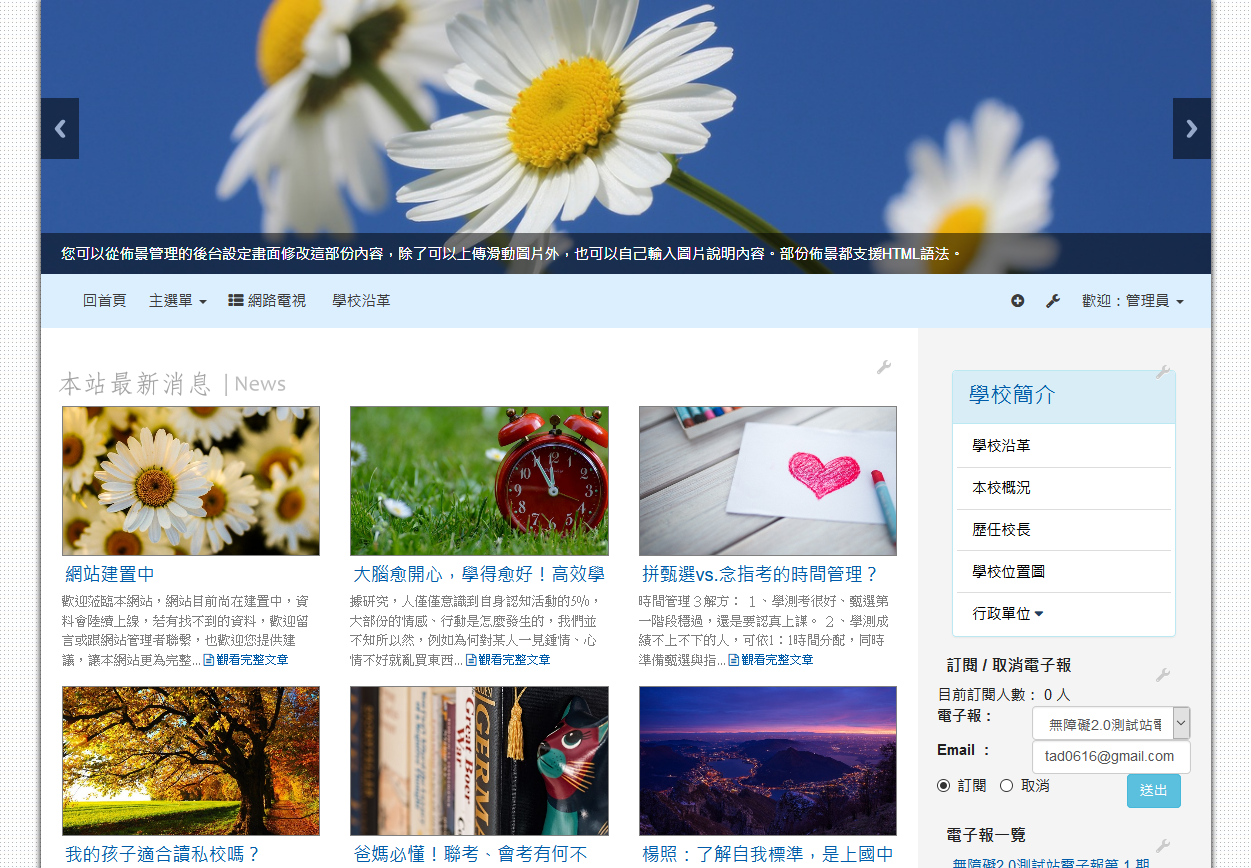
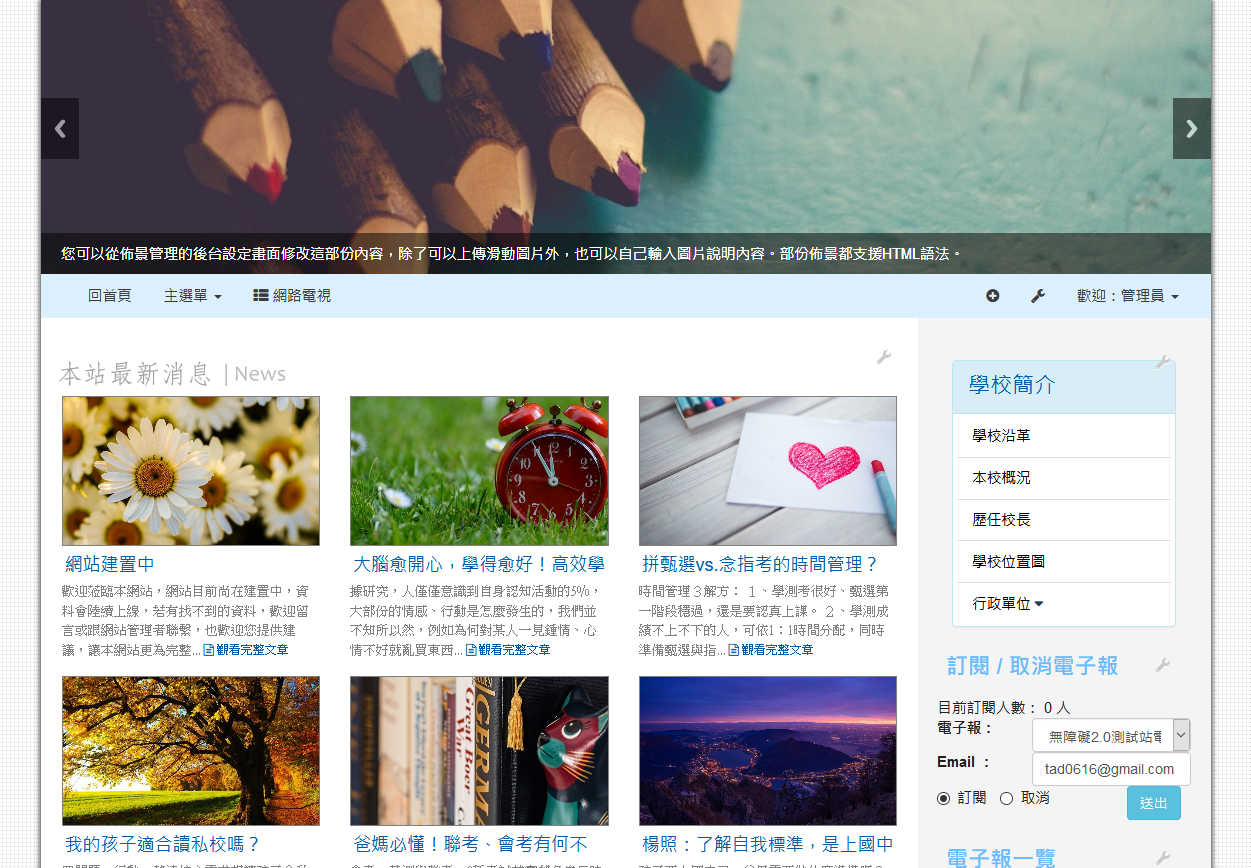
修正主內容區最上方無空隙問題

diff --git a/css/style.css b/css/style.css
@@ -37,7 +37,7 @@ p {
 
 /*主內容區*/
 #xoops_contents{
-
+  padding-top: 1rem;
 }
 
 /* 右區域 */
@@ -50,7 +50,6 @@ p {
   background-position: center center;
 }
 
-
 a {
   text-decoration: none;
 }
@@ -58,7 +57,6 @@ a {
 a:hover {
   text-decoration: none;
 }
-
 
 a.block_config {
   position:absolute;
@@ -74,7 +72,6 @@ a.block_config {
 a.block_config:hover {
   background-image: url(../img/block_config_hover.png);
 }
-
 
 .xoops_content_shadow{
   -moz-box-shadow: :0px 0px 5px 1px #333;

diff --git a/config2.php b/config2.php
@@ -1,135 +1,143 @@
 <?php
-$i                           = 0;
-$theme_config[$i]['name']    = "show_var";
-$theme_config[$i]['text']    = TF_SHOW_VAR;
-$theme_config[$i]['desc']    = TF_SHOW_VAR_DESC;
-$theme_config[$i]['type']    = "yesno";
+$i = 0;
+$theme_config[$i]['name'] = "show_var";
+$theme_config[$i]['text'] = TF_SHOW_VAR;
+$theme_config[$i]['desc'] = TF_SHOW_VAR_DESC;
+$theme_config[$i]['type'] = "yesno";
 $theme_config[$i]['default'] = "0";
 
 //外框是否套用 container
 $i++;
-$theme_config[$i]['name']    = "use_container";
-$theme_config[$i]['text']    = TF_USE_CONTAINER;
-$theme_config[$i]['desc']    = TF_USE_CONTAINER_DESC;
-$theme_config[$i]['type']    = "yesno";
+$theme_config[$i]['name'] = "use_container";
+$theme_config[$i]['text'] = TF_USE_CONTAINER;
+$theme_config[$i]['desc'] = TF_USE_CONTAINER_DESC;
+$theme_config[$i]['type'] = "yesno";
 $theme_config[$i]['default'] = "1";
 
 //外框是否套用陰影
 $i++;
-$theme_config[$i]['name']    = "use_shadow";
-$theme_config[$i]['text']    = TF_USE_SHADOW;
-$theme_config[$i]['desc']    = TF_USE_SHADOW_DESC;
-$theme_config[$i]['type']    = "yesno";
+$theme_config[$i]['name'] = "use_shadow";
+$theme_config[$i]['text'] = TF_USE_SHADOW;
+$theme_config[$i]['desc'] = TF_USE_SHADOW_DESC;
+$theme_config[$i]['type'] = "yesno";
 $theme_config[$i]['default'] = "1";
 
 //外框是否包含logo圖
 $i++;
-$theme_config[$i]['name']    = "shadow_include_logo";
-$theme_config[$i]['text']    = TF_USE_SHADOW_LOGO;
-$theme_config[$i]['desc']    = TF_USE_SHADOW_LOGO_DESC;
-$theme_config[$i]['type']    = "yesno";
+$theme_config[$i]['name'] = "shadow_include_logo";
+$theme_config[$i]['text'] = TF_USE_SHADOW_LOGO;
+$theme_config[$i]['desc'] = TF_USE_SHADOW_LOGO_DESC;
+$theme_config[$i]['type'] = "yesno";
 $theme_config[$i]['default'] = "0";
 
 //上方logo底色
 $i++;
-$theme_config[$i]['name']    = "logo_bgcolor";
-$theme_config[$i]['text']    = TF_LOGO_BGCOLOR;
-$theme_config[$i]['desc']    = TF_LOGO_BGCOLOR_DESC;
-$theme_config[$i]['type']    = "color";
+$theme_config[$i]['name'] = "logo_bgcolor";
+$theme_config[$i]['text'] = TF_LOGO_BGCOLOR;
+$theme_config[$i]['desc'] = TF_LOGO_BGCOLOR_DESC;
+$theme_config[$i]['type'] = "color";
 $theme_config[$i]['default'] = "transparent";
 
 //左區域和主內容間是否加上分隔線
 $i++;
-$theme_config[$i]['name']    = "left_separate";
-$theme_config[$i]['text']    = TF_LEFT_SPARATE;
-$theme_config[$i]['desc']    = TF_LEFT_SPARATE_DESC;
-$theme_config[$i]['type']    = "yesno";
+$theme_config[$i]['name'] = "left_separate";
+$theme_config[$i]['text'] = TF_LEFT_SPARATE;
+$theme_config[$i]['desc'] = TF_LEFT_SPARATE_DESC;
+$theme_config[$i]['type'] = "yesno";
 $theme_config[$i]['default'] = "0";
 
 //右區域和主內容間是否加上分隔線
 $i++;
-$theme_config[$i]['name']    = "right_separate";
-$theme_config[$i]['text']    = TF_RIGHT_SPARATE;
-$theme_config[$i]['desc']    = TF_RIGHT_SPARATE_DESC;
-$theme_config[$i]['type']    = "yesno";
+$theme_config[$i]['name'] = "right_separate";
+$theme_config[$i]['text'] = TF_RIGHT_SPARATE;
+$theme_config[$i]['desc'] = TF_RIGHT_SPARATE_DESC;
+$theme_config[$i]['type'] = "yesno";
 $theme_config[$i]['default'] = "0";
 
 //左右區域和主內容間的分隔線樣式
 $i++;
-$theme_config[$i]['name']    = "separate_style";
-$theme_config[$i]['text']    = TF_SPARATE_STYLE;
-$theme_config[$i]['desc']    = TF_SPARATE_STYLE_DESC;
-$theme_config[$i]['type']    = "text";
+$theme_config[$i]['name'] = "separate_style";
+$theme_config[$i]['text'] = TF_SPARATE_STYLE;
+$theme_config[$i]['desc'] = TF_SPARATE_STYLE_DESC;
+$theme_config[$i]['type'] = "text";
 $theme_config[$i]['default'] = "1px dashed gray";
 
 //字型設定
 $i++;
-$theme_config[$i]['name']    = "font_family";
-$theme_config[$i]['text']    = TF_FONT_FAMILY;
-$theme_config[$i]['desc']    = TF_FONT_FAMILY_DESC;
-$theme_config[$i]['type']    = "text";
+$theme_config[$i]['name'] = "font_family";
+$theme_config[$i]['text'] = TF_FONT_FAMILY;
+$theme_config[$i]['desc'] = TF_FONT_FAMILY_DESC;
+$theme_config[$i]['type'] = "text";
 $theme_config[$i]['default'] = constant('TF_FONT_FAMILY_DEFAULT');
 
 //頁尾底圖
 $i++;
-$theme_config[$i]['name']    = "footer_img";
-$theme_config[$i]['text']    = TF_FOOTER_IMG;
-$theme_config[$i]['desc']    = TF_FOOTER_IMG_DESC;
-$theme_config[$i]['type']    = "file";
+$theme_config[$i]['name'] = "footer_img";
+$theme_config[$i]['text'] = TF_FOOTER_IMG;
+$theme_config[$i]['desc'] = TF_FOOTER_IMG_DESC;
+$theme_config[$i]['type'] = "file";
 $theme_config[$i]['default'] = XOOPS_URL . "/themes/school2015/images/foot.jpg";
 
 //頁尾底圖CSS設定
 $i++;
-$theme_config[$i]['name']    = "foot_bg_css";
-$theme_config[$i]['text']    = TF_FOOTER_BG_CSS;
-$theme_config[$i]['desc']    = TF_FOOTER_BG_CSS_DESC;
-$theme_config[$i]['type']    = "text";
+$theme_config[$i]['name'] = "foot_bg_css";
+$theme_config[$i]['text'] = TF_FOOTER_BG_CSS;
+$theme_config[$i]['desc'] = TF_FOOTER_BG_CSS_DESC;
+$theme_config[$i]['type'] = "text";
 $theme_config[$i]['default'] = "background-size:cover;background-repeat:repeat;";
 
 //頁尾高度
 $i++;
-$theme_config[$i]['name']    = "footer_height";
-$theme_config[$i]['text']    = TF_FOOTER_HEIGHT;
-$theme_config[$i]['desc']    = TF_FOOTER_HEIGHT_DESC;
-$theme_config[$i]['type']    = "text";
+$theme_config[$i]['name'] = "footer_height";
+$theme_config[$i]['text'] = TF_FOOTER_HEIGHT;
+$theme_config[$i]['desc'] = TF_FOOTER_HEIGHT_DESC;
+$theme_config[$i]['type'] = "text";
 $theme_config[$i]['default'] = "180px";
 
 //頁尾底色
 $i++;
-$theme_config[$i]['name']    = "footer_bgcolor";
-$theme_config[$i]['text']    = TF_FOOTER_BGCOLOR;
-$theme_config[$i]['desc']    = TF_FOOTER_BGCOLOR_DESC;
-$theme_config[$i]['type']    = "color";
+$theme_config[$i]['name'] = "footer_bgcolor";
+$theme_config[$i]['text'] = TF_FOOTER_BGCOLOR;
+$theme_config[$i]['desc'] = TF_FOOTER_BGCOLOR_DESC;
+$theme_config[$i]['type'] = "color";
 $theme_config[$i]['default'] = "#0090d6";
 
 //頁尾文字內距
 $i++;
-$theme_config[$i]['name']    = "footer_padding";
-$theme_config[$i]['text']    = TF_FOOTER_PADDING;
-$theme_config[$i]['desc']    = TF_FOOTER_PADDING_DESC;
-$theme_config[$i]['type']    = "text";
+$theme_config[$i]['name'] = "footer_padding";
+$theme_config[$i]['text'] = TF_FOOTER_PADDING;
+$theme_config[$i]['desc'] = TF_FOOTER_PADDING_DESC;
+$theme_config[$i]['type'] = "text";
 $theme_config[$i]['default'] = "40px 50px";
 
 //頁尾文字顏色
 $i++;
-$theme_config[$i]['name']    = "footer_color";
-$theme_config[$i]['text']    = TF_FOOTER_COLOR;
-$theme_config[$i]['desc']    = TF_FOOTER_COLOR_DESC;
-$theme_config[$i]['type']    = "color";
+$theme_config[$i]['name'] = "footer_color";
+$theme_config[$i]['text'] = TF_FOOTER_COLOR;
+$theme_config[$i]['desc'] = TF_FOOTER_COLOR_DESC;
+$theme_config[$i]['type'] = "color";
 $theme_config[$i]['default'] = "#FFFFFF";
 
 //頁尾內容樣式設定
 $i++;
-$theme_config[$i]['name']    = "footer_style";
-$theme_config[$i]['text']    = TF_FOOTER_STYLE;
-$theme_config[$i]['desc']    = TF_FOOTER_STYLE_DESC;
-$theme_config[$i]['type']    = "textarea";
+$theme_config[$i]['name'] = "footer_style";
+$theme_config[$i]['text'] = TF_FOOTER_STYLE;
+$theme_config[$i]['desc'] = TF_FOOTER_STYLE_DESC;
+$theme_config[$i]['type'] = "textarea";
 $theme_config[$i]['default'] = "line-height:180%;text-align:center;";
 
 //我要加入的js或css
 $i++;
-$theme_config[$i]['name']    = "my_code";
-$theme_config[$i]['text']    = TF_MY_CODE;
-$theme_config[$i]['desc']    = TF_MY_CODE_DESC;
-$theme_config[$i]['type']    = "text";
+$theme_config[$i]['name'] = "my_code";
+$theme_config[$i]['text'] = TF_MY_CODE;
+$theme_config[$i]['desc'] = TF_MY_CODE_DESC;
+$theme_config[$i]['type'] = "text";
 $theme_config[$i]['default'] = "";
+
+//是否點擊才出現子選單
+$i++;
+$theme_config[$i]['name'] = "no_mouse_over";
+$theme_config[$i]['text'] = TF_NAV_NO_MOUSE_OVER;
+$theme_config[$i]['desc'] = TF_NAV_NO_MOUSE_OVER_DESC;
+$theme_config[$i]['type'] = "yesno";
+$theme_config[$i]['default'] = "0";

diff --git a/language/tchinese_utf8/main.php b/language/tchinese_utf8/main.php
@@ -21,7 +21,7 @@ define("TF_LOGO_BGCOLOR", "上方LOGO區的底色");
 define("TF_LOGO_BGCOLOR_DESC", "上方LOGO區的底色");
 define("TF_FONT_FAMILY", "主要字型設定");
 define("TF_FONT_FAMILY_DEFAULT", "\"Helvetica Neue\",Helvetica,Arial,\"微軟正黑體\",sans-serif");
-define("TF_FONT_FAMILY_DESC", "輸入字型名稱，有空白的部份需要用\"\"包起來。如：" . TF_FONT_FAMILY_DEFAULT);
+define('TF_FONT_FAMILY_DESC', '輸入字型名稱，有空白的部份需要用""包起來。完整可用字型請參考：<a href="' . XOOPS_URL . '/modules/tadtools/fonts.php" target="_blank">' . XOOPS_URL . '/modules/tadtools/fonts.php</a>');
 define("TF_USE_SHADOW_LOGO", "陰影是否包含logo");
 define("TF_USE_SHADOW_LOGO_DESC", "當logo在滑動圖文之上時，是否仍要加上陰影？");
 define("TF_USE_CONTAINER", "是否使用有限寬度？");
@@ -36,3 +36,6 @@ define('TF_SPARATE_STYLE', '左右區域分隔線的樣式');
 define('TF_SPARATE_STYLE_DESC', '左右區域分隔線的樣式');
 define('TF_MY_CODE', '欲加入頁尾的CSS或JS語法');
 define('TF_MY_CODE_DESC', '可自行載入CSS或JS');
+
+define('TF_NAV_NO_MOUSE_OVER', '是否點擊才出現子選單');
+define('TF_NAV_NO_MOUSE_OVER_DESC', '預設為滑鼠停留就出現，選是就必須點擊才會出現');

diff --git a/language/english/main.php b/language/english/main.php
@@ -22,7 +22,7 @@ define('TF_LOGO_BGCOLOR', 'Logo background color');
 define('TF_LOGO_BGCOLOR_DESC', 'Logo background color');
 define('TF_FONT_FAMILY', 'Font family');
 define('TF_FONT_FAMILY_DEFAULT', '"Helvetica Neue", Helvetica, Arial, sans-serif');
-define('TF_FONT_FAMILY_DESC', 'CSS font-family setup, e.g.:' . TF_FONT_FAMILY_DEFAULT);
+define('TF_FONT_FAMILY_DESC', 'Enter the font name, and wrap the blank part with "". For a complete list of available fonts, please refer to <a href="' . XOOPS_URL . '/modules/tadtools/fonts.php" target="_blank">' . XOOPS_URL . '/modules/tadtools/fonts.php</a>');
 define('TF_USE_SHADOW_LOGO', ' Display logo shadow? ');
 define('TF_USE_SHADOW_LOGO_DESC', '');
 define('TF_USE_CONTAINER', 'user class="container"?');
@@ -37,3 +37,5 @@ define('TF_SPARATE_STYLE', 'Separate line style');
 define('TF_SPARATE_STYLE_DESC', 'Setup separate line style.');
 define('TF_MY_CODE', 'Add CSS or JavaScript to footer');
 define('TF_MY_CODE_DESC', 'Add CSS or JavaScript to footer');
+define('TF_NAV_NO_MOUSE_OVER', 'Click to show submenu or not');
+define('TF_NAV_NO_MOUSE_OVER_DESC', 'Default is to appear when mouse hover, if yes, you must click to appear');

diff --git a/theme_autorun.php b/theme_autorun.php
@@ -1,3 +1,10 @@
 <?php
-xoops_load('XoopsFormRendererBootstrap3');
-XoopsFormRenderer::getInstance()->set(new XoopsFormRendererBootstrap3());
+use XoopsModules\Tadtools\Utility;
+if (!class_exists('XoopsModules\Tadtools\Utility')) {
+    require XOOPS_ROOT_PATH . '/modules/tadtools/preloads/autoloader.php';
+}
+Utility::get_jquery(true);
+if (file_exists(XOOPS_ROOT_PATH . "/class/xoopsform/renderer/XoopsFormRendererBootstrap3.php")) {
+    xoops_load('XoopsFormRendererBootstrap3');
+    XoopsFormRenderer::getInstance()->set(new XoopsFormRendererBootstrap3());
+}
